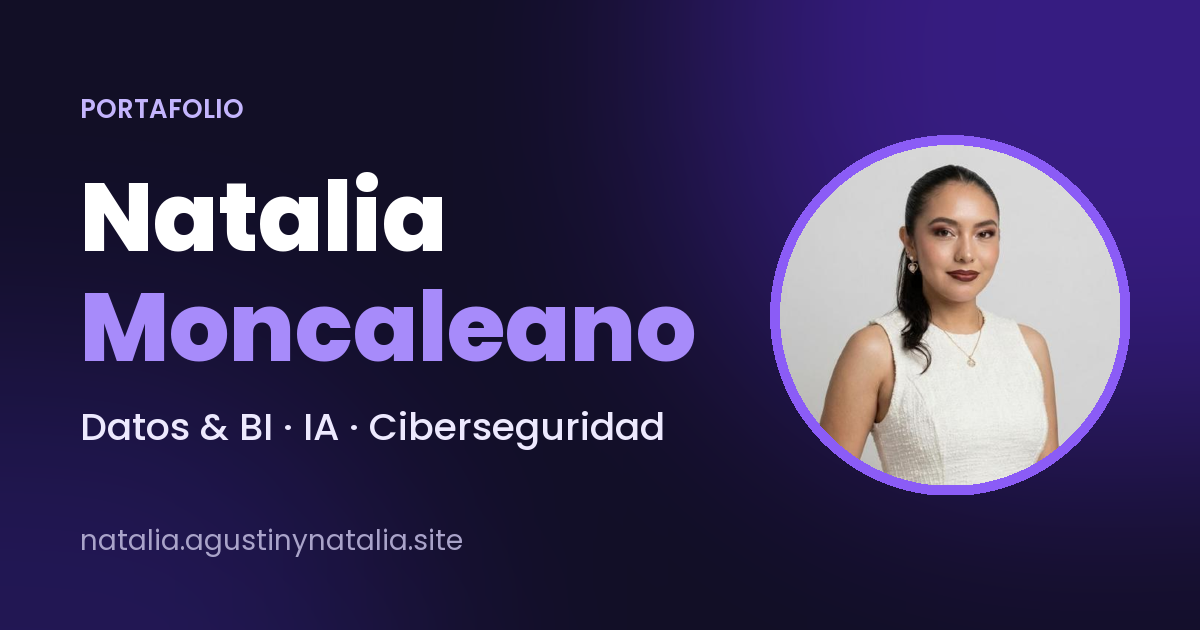
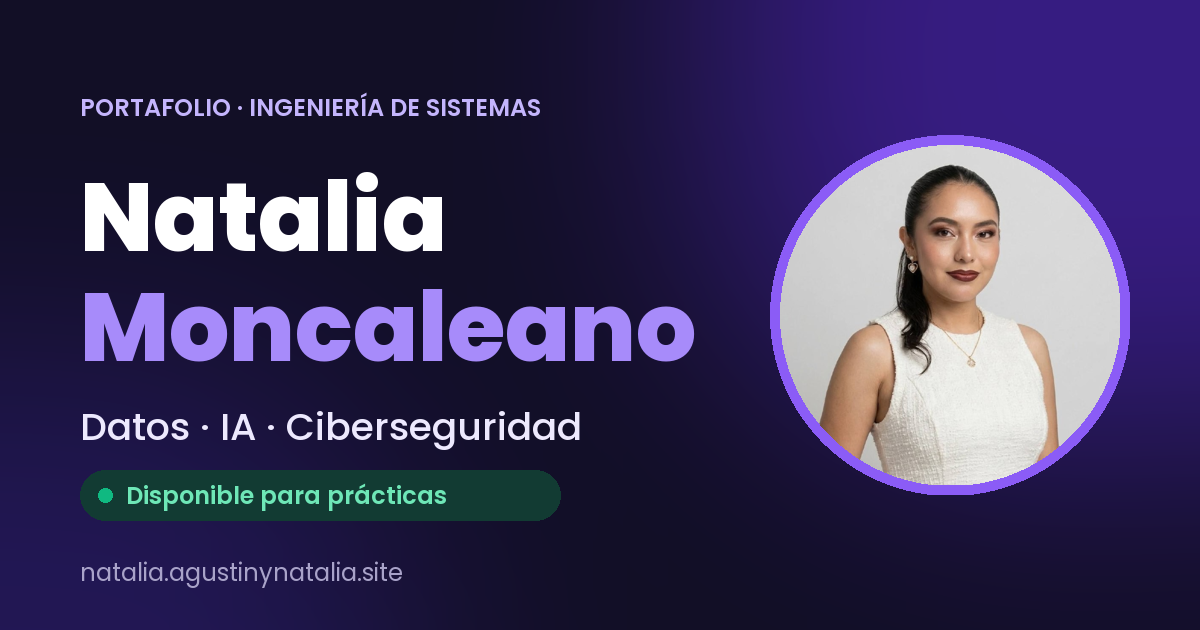
Portada: disponible para prácticas, texto de estudiante de Ingeniería de Sistemas y foto en mejor calidad

Changed region(s): [[0.0617, 0.6333, 0.555, 0.9349], [0.0617, 0.1508, 0.4625, 0.2111]]

diff --git a/index.html b/index.html
@@ -4,14 +4,14 @@
   <meta charset="utf-8">
   <meta name="viewport" content="width=device-width, initial-scale=1">
   <title>Natalia Moncaleano — Portafolio</title>
-  <meta name="description" content="Natalia Moncaleano — Analista de Datos y Business Intelligence. Power BI, MySQL, SQL y Azure. Bogotá, Colombia.">
+  <meta name="description" content="Natalia Moncaleano — Estudiante de Ingeniería de Sistemas en Bogotá. Datos, inteligencia artificial y ciberseguridad. Disponible para prácticas.">
 
   <link rel="icon" type="image/svg+xml" href="assets/favicon.svg">
 
   <!-- Vista previa al compartir el enlace (LinkedIn, WhatsApp, etc.) -->
   <meta property="og:type" content="website">
   <meta property="og:title" content="Natalia Moncaleano — Portafolio">
-  <meta property="og:description" content="Analista de Datos y BI · IA · Ciberseguridad. Proyectos con Power BI, SQL, Python, Spark y seguridad de la información.">
+  <meta property="og:description" content="Ingeniería de Sistemas · Datos, IA y Ciberseguridad. Disponible para prácticas profesionales.">
   <meta property="og:url" content="https://natalia.agustinynatalia.site/">
   <meta property="og:image" content="https://natalia.agustinynatalia.site/assets/images/og-image.png">
   <meta property="og:image:width" content="1200">
@@ -50,9 +50,10 @@
     <section class="hero">
       <div class="wrap hgrid">
         <div class="htext">
-        <p class="lbl">Analista de Datos · Business Intelligence</p>
+        <p class="avail"><span class="avd"></span>Disponible para prácticas · Datos, IA y Ciberseguridad</p>
+        <p class="lbl">Ingeniería de Sistemas · Datos · IA · Ciberseguridad</p>
         <h1 class="h1">Convierto datos en decisiones <span class="it">claras y seguras.</span></h1>
-        <p class="sub">Soy Natalia Moncaleano, analista de datos en Bogotá y estudiante de Ingeniería de Sistemas. Trabajo en Business Intelligence con Power BI, MySQL y Azure: modelo datos, construyo tableros y traduzco información compleja en decisiones, apoyada en IA y ciberseguridad.</p>
+        <p class="sub">Soy Natalia Moncaleano, estudiante de Ingeniería de Sistemas en Bogotá. Me muevo entre datos, inteligencia artificial y ciberseguridad: modelo datos y construyo tableros en Power BI, desarrollo aplicaciones con IA y diseño sistemas pensando en la seguridad desde el principio.</p>
         <div class="cta">
           <a class="pill" href="mailto:nattymoncaleanomontero@gmail.com">Trabajemos juntos</a>
           <a class="ghost" href="#proyectos">Ver proyectos ↓</a>

diff --git a/css/layout.css b/css/layout.css
@@ -270,3 +270,14 @@
 .dark .sn { background-image: linear-gradient(100deg, #C4B5FD, #F0ABFC); }
 .sl { font-size: 14px; line-height: 1.45; color: var(--mut); }
 @media (max-width: 920px) { .sgrid { grid-template-columns: repeat(2, minmax(0, 1fr)); row-gap: 30px; } }
+
+/* --- Etiqueta de disponibilidad --- */
+.avail {
+  display: inline-flex; align-items: center; gap: 10px; margin: 0 0 22px;
+  padding: 8px 16px 8px 12px; border-radius: 999px; font-size: 13.5px; font-weight: 600;
+  color: #047857; background: rgba(16, 185, 129, .12); border: 1px solid rgba(16, 185, 129, .35);
+}
+.dark .avail { color: #6EE7B7; background: rgba(16, 185, 129, .14); }
+.avd { width: 9px; height: 9px; border-radius: 999px; background: #10B981; box-shadow: 0 0 0 0 rgba(16, 185, 129, .55); animation: avpulse 2s infinite; }
+@keyframes avpulse { 0% { box-shadow: 0 0 0 0 rgba(16, 185, 129, .55); } 70% { box-shadow: 0 0 0 9px rgba(16, 185, 129, 0); } 100% { box-shadow: 0 0 0 0 rgba(16, 185, 129, 0); } }
+@media (prefers-reduced-motion: reduce) { .avd { animation: none; } }
